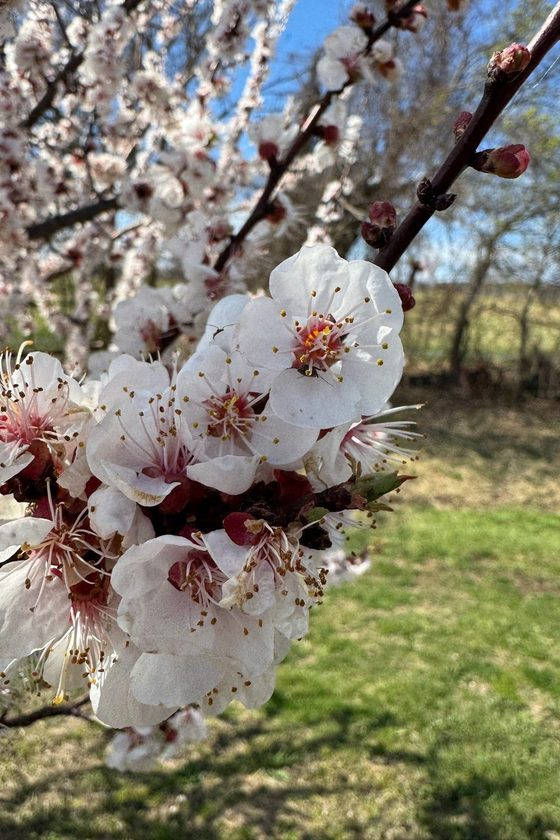
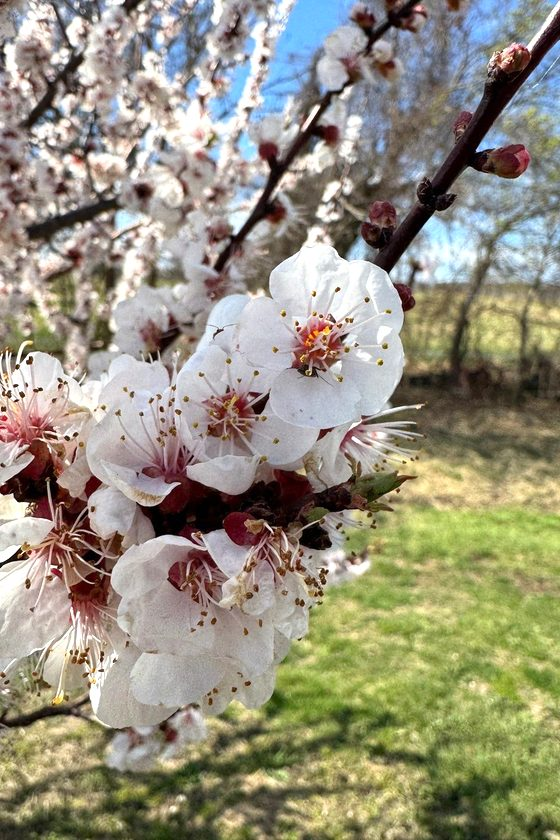
Zoom orange panel onto the leaves; brighten pink blossoms

diff --git a/_styles/rainbow-nav.scss b/_styles/rainbow-nav.scss
@@ -94,6 +94,6 @@ header[data-big] nav > a:hover {
         rgba(0, 0, 0, 0.08) 55%,
         transparent 78%
       ),
-      url("/images/banner/#{$i}.jpg?v=7");
+      url("/images/banner/#{$i}.jpg?v=8");
   }
 }
